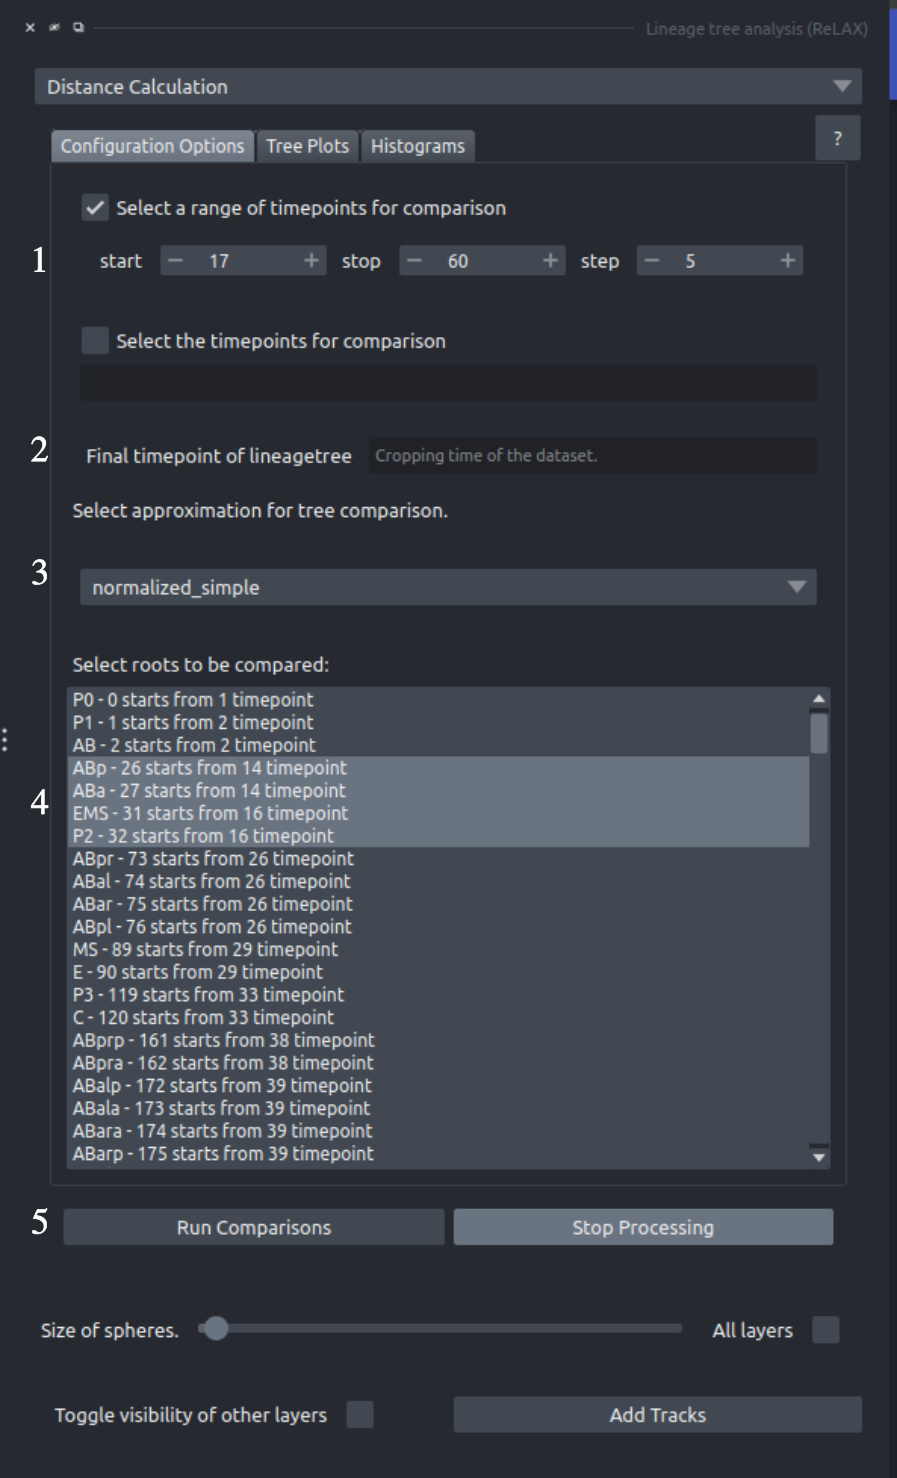
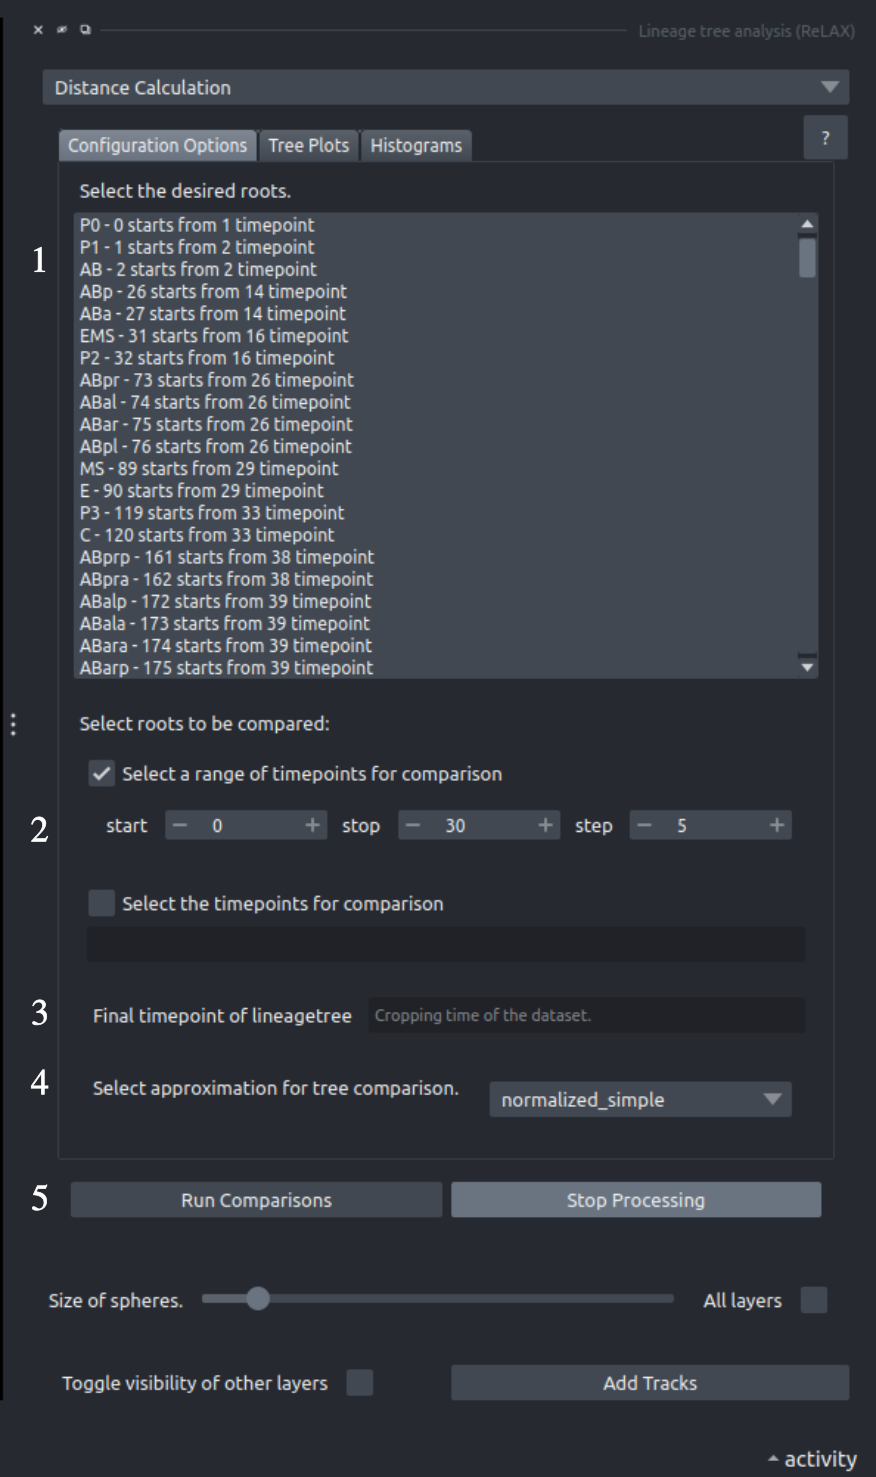
.

diff --git a/docs/distance/distance.md b/docs/distance/distance.md
@@ -1,18 +1,20 @@
 The *Distance Calculation* component enables users to calculate unordered tree edit distances online, using various [pre-made approximation methods](https://guignardlab.github.io/LineageTree/uted/). Once the distances have been computed, users may choose to inspect and compare the lineages using both the napari viewer and the clustermap results. Some algorithms are very fast but not precise, while others are slow but much more precise.
 
 This component focuses on calculating UTED systematically with different approximations and showcasing the results.
+
 ## Configuration
 
 Using this component the user can calculate the unordered tree edit distance for any lineage or sublineage and the sublineages spawned by their ancestors.
 
 ![config](./config_uted_celegans.png){: style="height:500px;"}
 
-1. **Levels of comparison selected**: Levels of comparison selected: For every selected lineage, their subtrees can also be compared. This setting allows users to specify subtrees rooted at a specific timepoint. The top section lets users choose a timepoint range, while the bottom section allows manual entry of specific timepoints. For example, if two lineages begin at timepoint 0 and both divide before or at timepoint 5, selecting comparisons at timepoint 5 results in four sublineages to be compared. The user may choose manual or a range of distances by using the corresponding checkboxes.
-2. **Time crop**: The last timepoint to be included in the analysis.
-3. [**Approximation/Style selection**](https://guignardlab.github.io/LineageTree/uted/#different-tree-approximations): The approximation to be used in the analysis. CAUTION: Different algorithms have different uses, for more information visit [LineageTree Tree approximatons](https://guignardlab.github.io/LineageTree/uted/#different-tree-approximations)
-4. **Subtree selection**: Specific lineages may be selected to compare. Some subtrees might begin later in the dataset due to tracking or imaging issues; they can still be included if they exist at the selected timepoint.
-5. **Start/stop Comparisons**: The user can start calculating the comparisons. While the comparisons are being run the rest of the plugin and napari remain responsive. At any point, the user may decide to stop the processing by clicking `Stop Processing`.
-		
+1. **Subtree selection**: Specific lineages may be selected to compare. Some subtrees might begin later in the dataset due to tracking or imaging issues; they can still be included if they exist at the selected timepoint.
+
+- **Levels of comparison selected**: Levels of comparison selected: For every selected lineage, their subtrees can also be compared. This setting allows users to specify subtrees rooted at a specific timepoint. The top section lets users choose a timepoint range, while the bottom section allows manual entry of specific timepoints. For example, if two lineages begin at timepoint 0 and both divide before or at timepoint 5, selecting comparisons at timepoint 5 results in four sublineages to be compared. The user may choose manual or a range of distances by using the corresponding checkboxes.
+- **Time crop**: The last timepoint to be included in the analysis.
+- **Start/stop Comparisons**: The user can start calculating the comparisons. While the comparisons are being run the rest of the plugin and napari remain responsive. At any point, the user may decide to stop the processing by clicking `Stop Processing`.
+- [**Approximation/Style selection**](https://guignardlab.github.io/LineageTree/uted/#different-tree-approximations): The approximation to be used in the analysis. CAUTION: Different algorithms have different uses, for more information visit [LineageTree Tree approximatons](https://guignardlab.github.io/LineageTree/uted/#different-tree-approximations)
+  
 ## Clustermap
 
 The comparisons that are being calculated are shown on a clustermap. This clustermap is interactive and allows user to click on it to inspect the morphology of the compared lineages.
@@ -30,7 +32,7 @@ When analyzing multiple lineages, clustermaps can become large and difficult to 
 
 ![histogram](./histograms_celegans.png){: style="height:500px;"}
 
-1. **Master Controls**: 
+1. **Master Controls**:
     - **Top**: The global slider that changes all histograms in sync.
     - **Bottom**: The bins controller is used to define the number of bins on the histograms. All the histograms will have the same number of bins as the master histogram (2.) even if it is set on `auto`.
 

diff --git a/docs/cross+comparison/distance_cross.md b/docs/cross+comparison/distance_cross.md
@@ -1,0 +1,18 @@
+
+For comparisons across embryos the User Interface remains as close as possible to [Distance Calculation](../distance/distance.md). However some changes have been made to accomodate the needs of such an analysis.
+
+![config](config_cross.png)
+
+1. **Tree approximation selection**: Similar to [Distance Calculation](../distance/distance.md), however any differences in time resolution are handled automatically by the manager.
+
+- **Dataset Selection**: The user may select as many datasets from the manager as they want. Each selected dataset is added as a tab on 3
+- **Configuring the roots**: This component is identical to [Distance Calculation](../distance/distance.md). An ***Important*** thing is that the user has to decide the levels of comparison and the crop times independently, so these comparisons need some prior rough analysis using the populations of cells of an embryo.
+
+![comps](cross_comp.png)
+
+1. **Tree graphs**: The lineages that are currently being compared.
+
+- **The cusltermap**: The clustermap that contains all the roots that are being compared and it's configuration/save buttons.
+- **The 2 dummy viewers**: These viewers work independent to each other so the user may inspect different timepoints and different angles in each dataset. In this specific image the El lineage of 2 *Parhyale hawaiensis* embryos is being compared
+
+The histogram has not been implemented yet for cross comparison, but it is in the works.

diff --git a/docs/cross+comparison/manager.md b/docs/cross+comparison/manager.md
@@ -1,1 +1,11 @@
-If a user want to compare multiple embryos, there are multiple parameters they have to take into account like time resolution testing if they are the same lineage ... Thus, we created this manager to import multiple embryos and allow sures to compare embryos without them trying to fix weird time resolutions configurations.
+If a user want to compare multiple embryos, there are multiple parameters they have to take into account like time resolution. Thus, we developed this manager to handle such calculations on the background,such as the users can perform their analysis hassle free.
+
+![manager](./manager.png)
+
+1. **Create a Manager from existing layers**: Pressing this button will create a new manager that consists of all the layers of napari that contain a LineageTree.
+
+- **Load an existing Manager**
+- **The LineageTree list**: This list contains all the LineageTrees the curent manager contains. Users may interact with this list with right+Click to change the time resolutions of any dataset or remove it.
+- **Add a LineageTree from the manager to the viewer**: Add a LineageTree from the manager to the viewer *if* it does not already exist in the layer list.
+- **Add an embryo from file**: Imports an embryo from a file directly to the viewer.
+- **Save the Manager**: Save the manager.

diff --git a/docs/guides/guides.md b/docs/guides/guides.md
@@ -1,14 +1,14 @@
 This section is focused on quick guides on usual tasks the users may want to do using this plugin.
 
 
-- How to relabel and save a lineagetree
+- How to relabel and save a lineagetree X
 
-- Hide and show the ectodermal lineages
+- Hide and show the ectodermal lineages X
 
-- Color according to an attribute and reset
+- Color according to an attribute and reset (not important)
+ 
+- Compare in random lineages in Parhyale and find them. (Bad)
 
-- Compare in random lineages in Parhyale and find them.
+- Compare specific lineages in c elegans and create histograms that are useful for interpretation. (Did it)
 
-- Compare specific lineages in c elegans and create histograms that are useful for interpretation.
-
-- Do a cross comparison.
+- Do a cross comparison. Ok...
